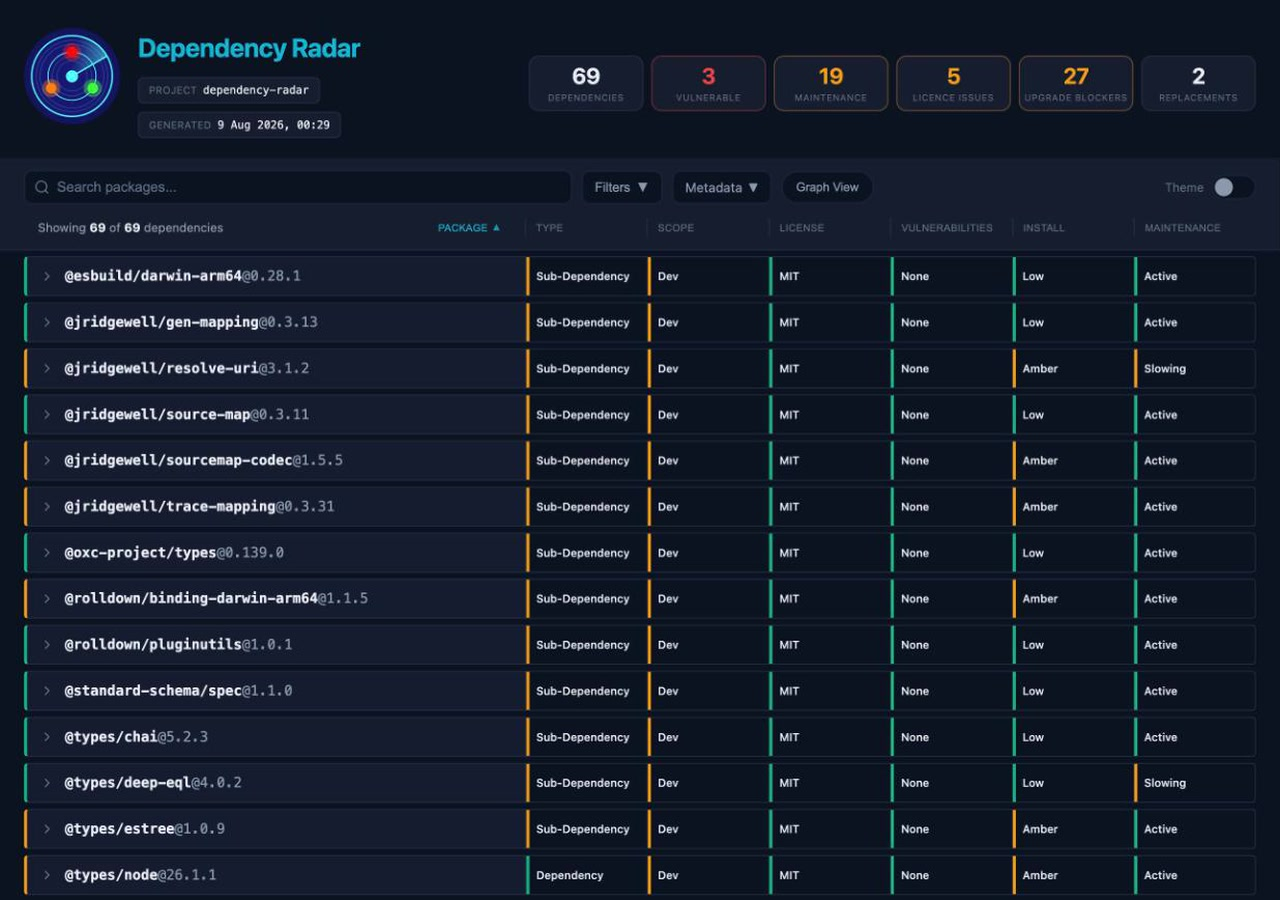
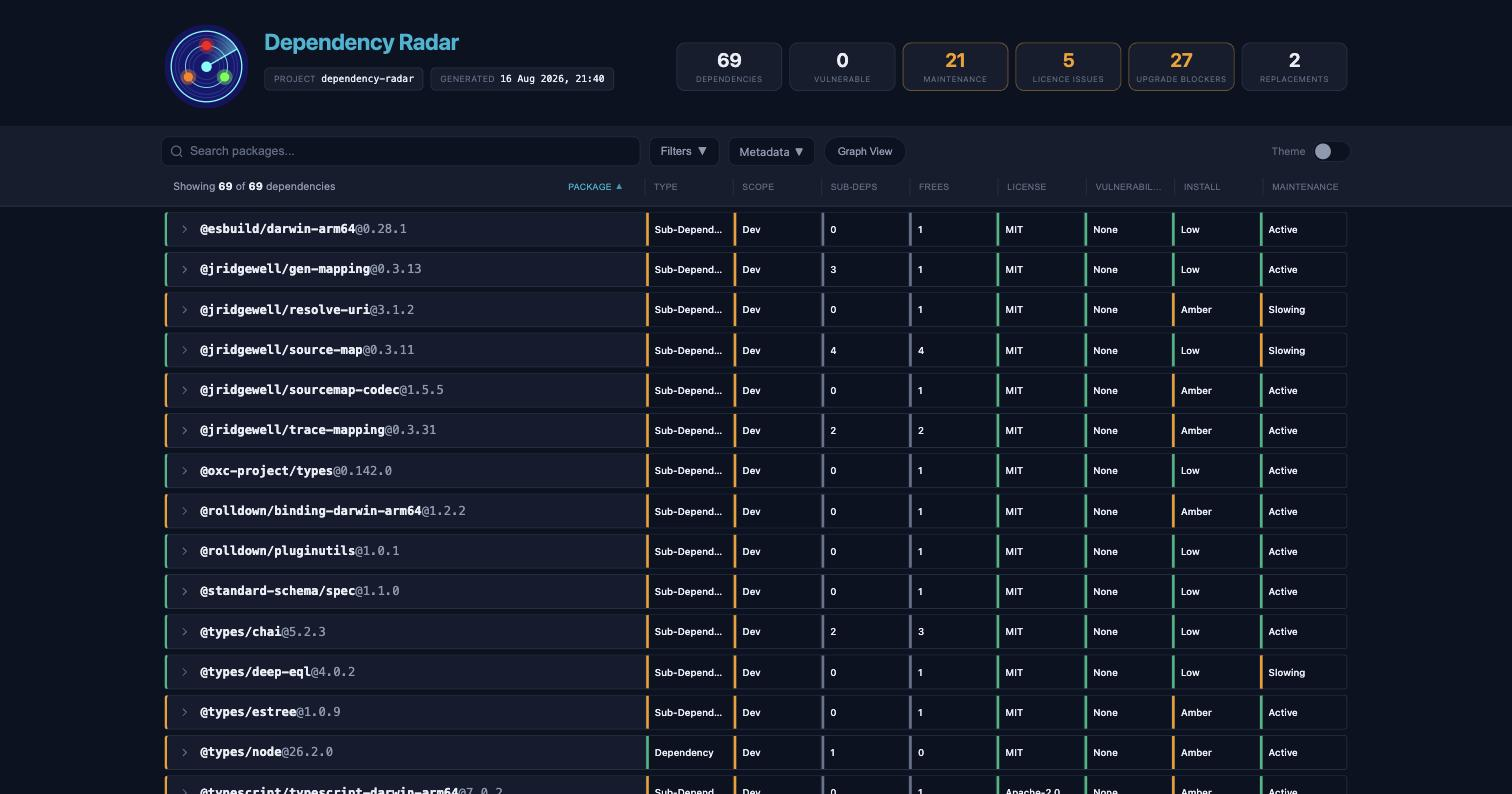
Update README and screenshots for the v1.2 feature branch
- Document measured install size (with the schema 1.8 interface excerpt),
  removal previews, the new highlight filters, whole-project and root
  package.json workspace entries, the empty-workspace screen, full screen,
  and hash-based back/forward/deep links.
- Refresh all five screenshots from the current UI: the list view with the
  Sub-deps and Frees columns, the expanded card with measured install size
  and removal data, the classic graph showing the amber/blue selection
  routes, the flame view, and the fitted balloon constellation.

diff --git a/README.md b/README.md
@@ -25,16 +25,16 @@ You can see a [Dependency Radar example report](https://www.dependency-radar.com
 ---
 
 ![Dependency Radar – dependency list view](./docs/screenshot-01.jpg)
-*List view: search, filter, and drill into every dependency, licence, vulnerabilities, install risk, depth, origins, and more.*
+*List view: search, filter, and drill into every dependency, with licence, vulnerabilities, install risk, sub-dependency and removal counts, and more.*
 
 ![Dependency Radar – expanded dependency](./docs/screenshot-03.jpg)
-*Expanded dependency view: scan the key risk signals first, then drill into status, scope, origins, install behaviour, licence, vulnerabilities, and upgrade blockers.*
+*Expanded dependency view: key risk signals first, then status, origins, measured install size, removal preview, licence, vulnerabilities, and upgrade blockers.*
 
 ![Dependency Radar – interactive dependency graph view](./docs/screenshot-02.jpg)
-*Graph view: explore the full dependency tree visually, with a docked side panel for search and per-package details — no tooltips covering the graph.*
+*Graph view: explore the full dependency tree visually. Selecting a package colours the routes that keep it installed in amber and what it depends on in blue, with a docked side panel for search and per-package details.*
 
 ![Dependency Radar – flame view](./docs/screenshot-04.jpg)
-*Flame view: a profiler-style icicle of your dependency tree. Bar width is the share of the tree beneath it, so the heaviest direct dependencies are obvious at a glance.*
+*Flame view: a profiler-style icicle over the dominator tree. Bar width is the number of packages that would leave node_modules if you deleted it, so the heaviest direct dependencies are obvious at a glance.*
 
 ![Dependency Radar – balloon view](./docs/screenshot-05.jpg)
 *Balloon view: every direct dependency is a system orbiting your project, its sub-dependencies fanning out behind it, coloured by lineage.*
@@ -79,6 +79,8 @@ Security issues should be reported privately; see [SECURITY.md](./SECURITY.md).
 
 - **Vulnerability scanning** — runs `npm audit` / `pnpm audit` / `yarn audit` and surfaces advisories with severity, fix availability, installed-version matching, and direct static-import evidence
 - **License analysis** — validates SPDX declarations, infers licences from `LICENSE` files, and flags mismatches, unknown licences, and strong copyleft
+- **Measured install size** and per-package byte buckets (code, type declarations, source maps, other): exact on-disk numbers, never estimates
+- **Removal previews**: for any package, what deleting it would actually free (packages and measured bytes), what survives and who keeps it, and which dependents block a direct dependency's removal
 - **Five interactive graph layouts** — the classic dependency graph plus flame (removal-cost icicle over the dominator tree), treemap (disk-usage style, area = what deleting frees), balloon (orbital constellation), and hyperbolic (focus+context with re-rooting) views, switchable from the graph toolbar, with a shared docked side panel and package search
 - **Upgrade friction analysis** — identifies upgrade blockers: peer constraints, engine ranges, native bindings, install scripts, deprecated packages
 - **Maintenance signals** — flags deprecated, repo-archived, unmaintained, stale, and slowing dependencies from npm registry metadata (plus repository push activity when available), with a local 7-day cache
@@ -206,7 +208,7 @@ It is recomputed after registry enrichment so a registry-discovered deprecation 
 
 The report's Graph View offers five switchable layouts (toolbar buttons), all sharing the same docked side panel and package search:
 
-- **Graph** — the classic layered dependency graph: pan, zoom, and click a node to focus its ancestors and descendants. Focusing zooms to fit the highlighted subtree.
+- **Graph** — the classic layered dependency graph: pan, zoom, and click a node to focus its ancestors and descendants. Focusing zooms to fit the highlighted subtree and colours the two halves of the story separately: amber for the routes that keep the package installed, accent for what it depends on, with gentle flow pulses along both.
 - **Flame** — a profiler-style icicle plot over the *dominator tree*: every package appears exactly once, and a bar's width is the number of packages that would leave `node_modules` if you deleted it. Packages kept alive by more than one dependency sit in a grey **shared** band — no single dependency gets credit for them. Click a bar to zoom in — every ancestor stays pinned above you; double-click to reset.
 - **Treemap** — the disk-usage view of your dependencies: rectangle area is the number of packages deleting it would free, with the shared block greyed out. Click to inspect, double-click to drill in, double-click the zoomed box to climb back out.
 - **Balloon** — an orbital constellation: the project at the centre, direct dependencies orbiting it, each one's sub-dependencies fanning out behind it recursively. Bodies are sized by how many unique packages sit beneath them. Drag to pan, scroll to zoom, click a body to fly to it.
@@ -214,13 +216,15 @@ The report's Graph View offers five switchable layouts (toolbar buttons), all sh
 
 Shared behaviour:
 
-- **Side panel** — selecting a package in any layout shows its dossier: version, kind, licence, vulnerabilities, how many unique packages sit beneath it, what removing it would actually free, and clickable *depends-on* / *required-by* chips that refocus the current view. For a direct dependency that other packages also pull in, the dossier says so honestly — removing its package.json entry frees nothing while something else still needs it. Search results fly to the package in whichever layout you're using.
+- **Side panel** — selecting a package in any layout shows its dossier: version, kind, licence, vulnerabilities, how many unique packages sit beneath it, what removing it would actually free (packages and measured on-disk bytes, with the full freed/retained preview in the list view), measured install size, import evidence, and clickable *depends-on* / *required-by* chips that refocus the current view. Measured numbers carry small (i) notes explaining exactly what was and was not measured. For a direct dependency that other packages also pull in, the dossier says so honestly — removing its package.json entry frees nothing while something else still needs it. Search results fly to the package in whichever layout you're using.
 - **Status line** — in the flame, treemap, balloon, and hyperbolic views, hovering shows the full trail (`project › a › b › c`) along the bottom of the canvas instead of a popover covering the visualization. The treemap adds a small cursor name tag, since most of its boxes are too small to carry a label.
 - **Colours are lineage** — in Flame and Balloon, each direct dependency's entire subtree keeps one hue, so you can trace which root pulled a package in; red always marks vulnerable packages, and dev-only dependencies render dimmer. The toolbar's **Key** dropdown explains each layout's encoding.
-- **Workspaces** — all layouts respect the workspace selector, scoping the tree to that workspace's direct dependencies.
-- **Filters** — a toolbar dropdown with two sections. *Show* toggles runtime dependencies, dev dependencies, and sub-dependencies, and a depth selector caps how deep the tree is expanded (Depth ≤ 1 shows just your direct dependencies and their children). *Highlight* spotlights the signals worth acting on — vulnerable packages, maintenance concerns (deprecated/archived/unmaintained/stale), community replacement suggestions, licence issues, and upgrade blockers — by dimming everything that doesn't match, in all five layouts. Filters change what renders, never the numbers: the dossier's impact facts always come from the full workspace graph.
+- **Workspaces** — all layouts respect the workspace selector. *Whole project* is the aggregate of every workspace's direct dependencies; the monorepo root's own manifest appears as *name (root package.json)*; and selecting a workspace with nothing to show explains itself with a clickable list of workspaces that do.
+- **Filters** — a toolbar dropdown with two sections. *Show* toggles runtime dependencies, dev dependencies, and sub-dependencies, and a depth selector caps how deep the tree is expanded (Depth ≤ 1 shows just your direct dependencies and their children). *Highlight* spotlights the signals worth acting on — vulnerable packages, maintenance concerns (deprecated/archived/unmaintained/stale), community replacement suggestions, licence issues, upgrade blockers, duplicate installed versions, and direct dependencies with no imports found — by dimming everything that doesn't match, in all five layouts. Filters change what renders, never the numbers: the dossier's impact facts always come from the full workspace graph.
 - **Search doubles as a highlight filter** — while a search query is active, packages whose names don't match render dimmed in every layout, so matches stand out across the whole tree.
 - **Replacement suggestions** — if a selected package has a community replacement suggestion (from the [e18e](https://e18e.dev/) [module-replacements](https://github.com/es-tooling/module-replacements) catalogue), the dossier shows a *swap for …* chip, linking to the migration guidance when the catalogue provides it.
+- **Full screen** — a button in the corner of the canvas hides everything except the visualization, for presentations. Escape or the button exits.
+- **Back, forward, and deep links** — view switches, layout changes, workspace changes, filters, and selections mirror into the URL hash, so the browser's Back/Forward buttons walk your exploration and a copied link reopens the report exactly where you were.
 - **Remembered between sessions** — the chosen layout and filters persist in the browser (like the light/dark theme), so the report reopens the way you left it.
 
 ---
@@ -708,7 +712,7 @@ The JSON schema matches the `AggregatedData` TypeScript interface in `src/types.
 
 ```ts
 export interface AggregatedData {
-  schemaVersion: '1.6'; // Report schema version for compatibility checks
+  schemaVersion: '1.8'; // Report schema version for compatibility checks
   generatedAt: string; // ISO timestamp when the scan finished
   dependencyRadarVersion: string; // CLI version that produced the report
   git: {
@@ -827,6 +831,17 @@ export interface DependencyRecord {
     version: string; // Installed version from npm ls
     description?: string; // Description from the installed package.json (if present)
     fileCount?: number; // Number of files in the installed package folder (excluding nested node_modules)
+    installSize?: {
+      totalBytes: number; // Measured on-disk bytes (uncompressed, excluding nested node_modules)
+      codeBytes: number; // Bytes in JS/TS source files
+      typesBytes: number; // Bytes in .d.ts/.d.mts/.d.cts declaration files
+      mapBytes: number; // Bytes in source maps
+      otherBytes: number; // Everything else (assets, manifests, docs)
+    }; // Omitted when any file could not be read, so partial sums are never presented as measurements
+    platform?: {
+      os?: string[]; // package.json#os constraints (npm ! negations preserved)
+      cpu?: string[]; // package.json#cpu constraints
+    };
     hasBin?: true; // True if package.json declares at least one executable in `bin`
     deprecated: boolean; // True when deprecated on the npm registry (installed or latest version), or via a local package.json deprecated flag
     links: {
